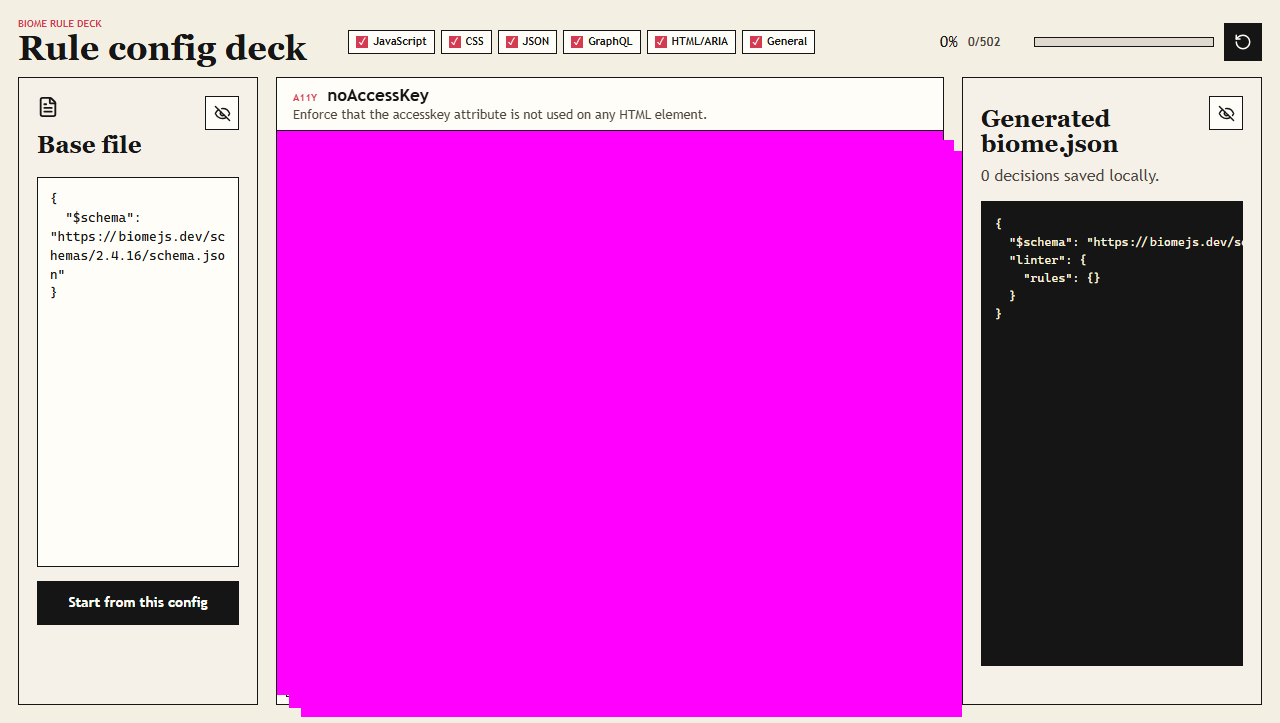
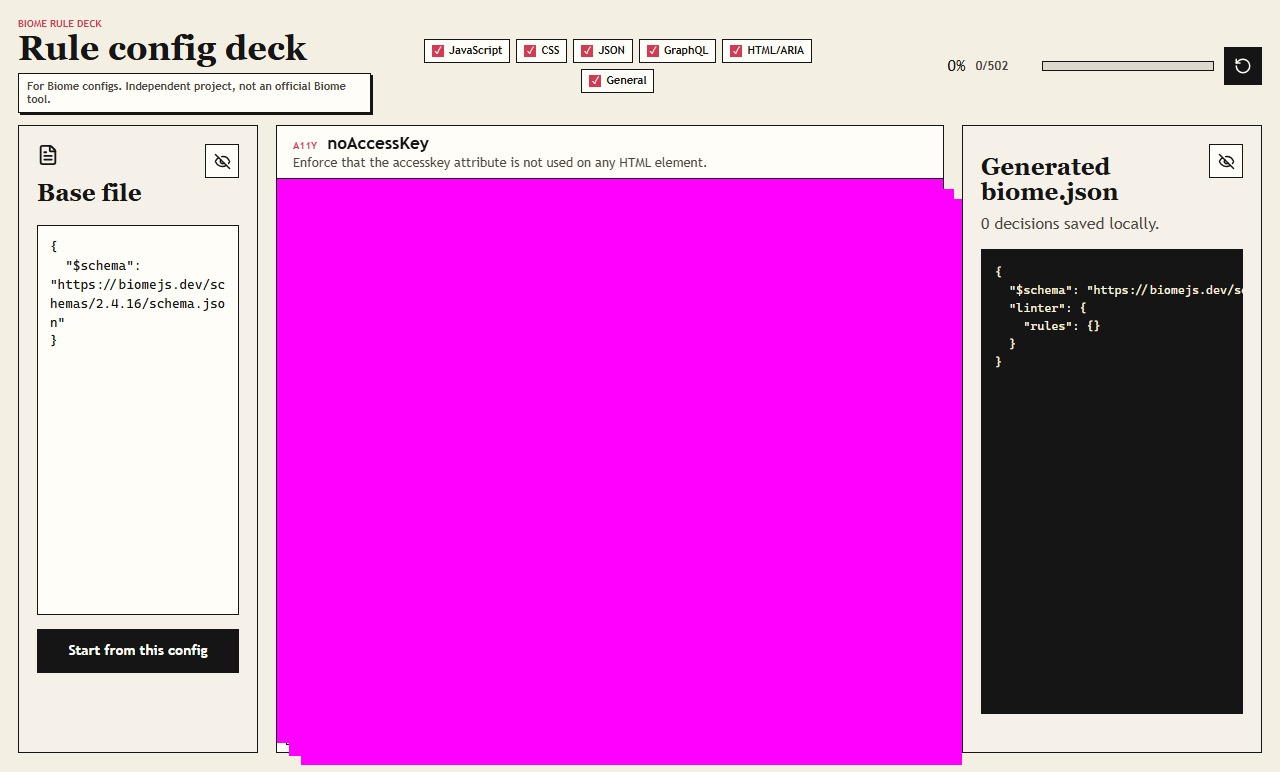
fix: clarify Biome project affiliation

diff --git a/src/components/review/ReviewHeader.css b/src/components/review/ReviewHeader.css
@@ -26,6 +26,20 @@
   max-width: 680px;
 }
 
+.project-note {
+  background: #fffdf7;
+  border: 1px solid #151515;
+  box-shadow: 2px 2px 0 #151515;
+  color: #4c463d;
+  display: inline-block;
+  font:
+    800 11px / 1.2 "Trebuchet MS",
+    sans-serif;
+  margin: 8px 0 0;
+  max-width: 360px;
+  padding: 6px 8px;
+}
+
 .category-filter {
   border: 0;
   display: flex;

diff --git a/src/components/review/ReviewHeader.tsx b/src/components/review/ReviewHeader.tsx
@@ -18,6 +18,9 @@ export function ReviewHeader(props: ReviewHeaderProps) {
       <div>
         <p className="eyebrow">Biome rule deck</p>
         <h1>Rule config deck</h1>
+        <p className="project-note">
+          For Biome configs. Independent project, not an official Biome tool.
+        </p>
       </div>
       <CategoryFilter
         selectedCategories={props.selectedCategories}

diff --git a/src/components/review/__tests__/ReviewHeader.integration.spec.tsx b/src/components/review/__tests__/ReviewHeader.integration.spec.tsx
@@ -19,6 +19,7 @@ describe('ReviewHeader', () => {
     )
 
     expect(screen.getByRole('heading', { name: 'Rule config deck' })).toBeInTheDocument()
+    expect(screen.getByText(/not an official Biome tool/i)).toBeInTheDocument()
     expect(screen.getByText('25%')).toBeInTheDocument()
     expect(screen.getByText('2/8')).toBeInTheDocument()
 